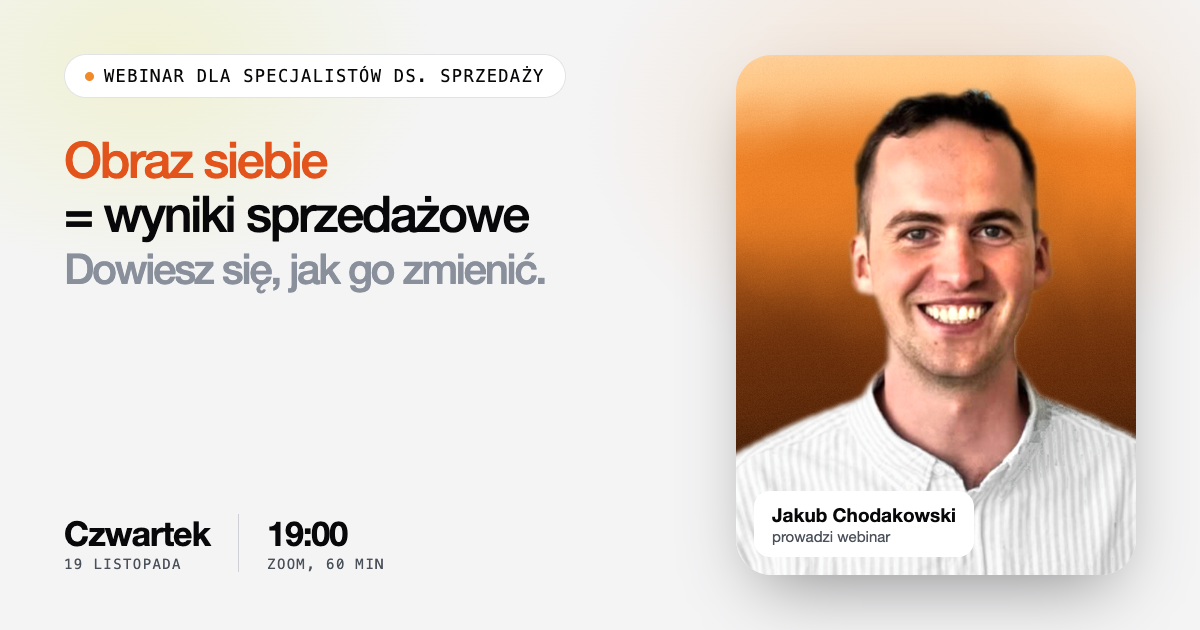
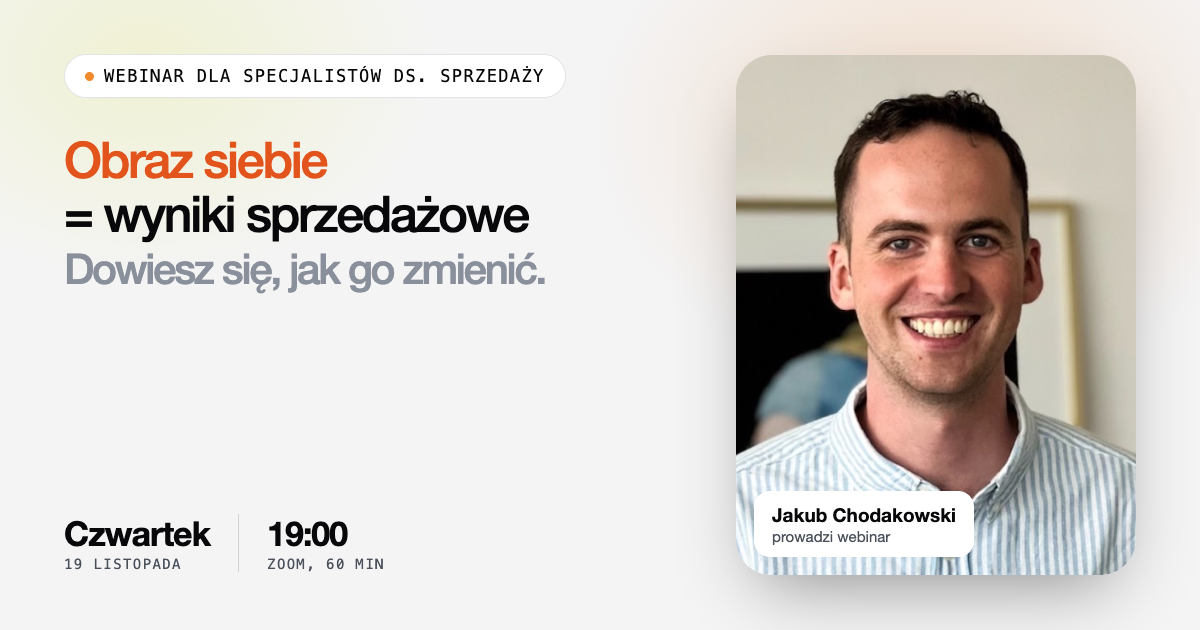
Webinar: nowe zdjęcie prowadzącego (koszula w paski), mniejsze na telefonie, nowy obrazek podglądu

Changed region(s): [[0.5858, 0.0603, 0.9558, 0.9349]]

diff --git a/components/bruno/webinar-lp-zapis.tsx b/components/bruno/webinar-lp-zapis.tsx
@@ -22,6 +22,8 @@ const START = WEBINAR.start;
 const KONIEC = START + 60 * 60 * 1000;
 const GCAL = webinarLinkGoogle();
 const ICS = "/api/bruno/webinar/ics";
+// 16.11 (USER_001): nowe zdjęcie prowadzącego (koszula w paski, jasna ściana; przycięte do kwadratu) w hero, przy bio i w okienku zapisu.
+const FOTO = "/bruno/jakub-webinar-koszula.jpg";
 /** Nadawca maila z linkiem Zoom (do strony „Dzięki” i okienka). */
 export const NADAWCA_ADRES = "jakub@salesbruno.com";
 
@@ -237,7 +239,7 @@ export default function WebinarLpZapis({ motyw = "pomarancz", dziekiUrl }: { mot
           </h1>
           {/* 29.10 (USER_001): na telefonie zdjęcie od razu pod „Bez pilnowania ich.”. */}
           <div className={`${s.heroFoto} ${s.heroFotoTel}`}>
-            <img src="/bruno/jakub-webinar.jpg?v=2" alt="Jakub Chodakowski" width={960} height={863} />
+            <img src={FOTO} alt="Jakub Chodakowski" width={703} height={703} />
             <div className={s.heroFotoPodpis}>
               <b>Jakub Chodakowski, CEO</b>
               <span>prowadzi webinar</span>
@@ -267,7 +269,7 @@ export default function WebinarLpZapis({ motyw = "pomarancz", dziekiUrl }: { mot
         </div>
         <div className={`${s.heroFoto} ${s.heroFotoKomp}`}>
           {/* 29.10 (USER_001): kadr ucięty nad zaokrągleniem koszuli, dół prosty (public/bruno/jakub-webinar.jpg = /jakub.jpg bez dolnych 110 px). */}
-          <img src="/bruno/jakub-webinar.jpg?v=2" alt="Jakub Chodakowski" width={960} height={863} />
+          <img src={FOTO} alt="Jakub Chodakowski" width={703} height={703} />
           <div className={s.heroFotoPodpis}>
             <b>Jakub Chodakowski, CEO</b>
             <span>prowadzi webinar</span>
@@ -278,7 +280,7 @@ export default function WebinarLpZapis({ motyw = "pomarancz", dziekiUrl }: { mot
       {/* KTO: osobna sekcja (USER_001 29.10). */}
       <section className={`${s.sekcja} ${s.sekcjaZapis} ${s.sekcjaProwadzacy}`}>
         <div className={s.prowadzacyZapis}>
-          <img src="/jakub.jpg" alt="Jakub Chodakowski" width={88} height={88} />
+          <img src={FOTO} alt="Jakub Chodakowski" width={88} height={88} />
           <p>
             <b className={s.bioImie}>Jakub Chodakowski, CEO.</b> {T.prowadzacy}
           </p>
@@ -379,7 +381,7 @@ export default function WebinarLpZapis({ motyw = "pomarancz", dziekiUrl }: { mot
               ×
             </button>
             <div className={s.oknoGlowa}>
-              <img src="/jakub.jpg" alt="" width={56} height={56} />
+              <img src={FOTO} alt="" width={56} height={56} />
               <div>
                 <h2 className={s.h2} id="okno-tytul">{T.okno.tytul}</h2>
                 <p className={s.oknoPod}>{T.okno.pod}</p>

diff --git a/components/bruno/webinar-lp.module.css b/components/bruno/webinar-lp.module.css
@@ -2605,3 +2605,33 @@
     white-space: nowrap;
   }
 }
+/* 16.11 (USER_001): nowe zdjęcie prowadzącego jest kwadratowe; na telefonie zdjęcie mniejsze. */
+.mAcad.zapisA .heroFoto img {
+  aspect-ratio: 1 / 1;
+  object-position: 50% 30%;
+}
+.mAcad .prowadzacyZapis img,
+.mAcad .oknoGlowa img {
+  object-position: 50% 25%;
+}
+@media (max-width: 860px) {
+  .mAcad.zapisA .heroFotoTel {
+    width: 72%;
+    max-width: 300px;
+    margin: 14px auto 24px;
+  }
+  .mAcad.zapisA .heroFotoTel .heroFotoPodpis {
+    left: 10px;
+    bottom: 10px;
+    padding: 8px 11px;
+  }
+}
+@media (max-width: 860px) {
+  .mAcad.zapisA .heroFotoTel .heroFotoPodpis b {
+    font-size: 12px;
+    white-space: nowrap;
+  }
+  .mAcad.zapisA .heroFotoTel .heroFotoPodpis span {
+    font-size: 11px;
+  }
+}

diff --git a/app/webinar/page.tsx b/app/webinar/page.tsx
@@ -22,7 +22,7 @@ export const metadata: Metadata = {
     siteName: "Jakub Chodakowski",
     locale: "pl_PL",
     type: "website",
-    images: [{ url: "/bruno/webinar-og.png?v=1611b", width: 1200, height: 630, alt: `Webinar, ${WEBINAR.dzien} ${WEBINAR.data}, ${WEBINAR.godzina}` }],
+    images: [{ url: "/bruno/webinar-og.png?v=1611c", width: 1200, height: 630, alt: `Webinar, ${WEBINAR.dzien} ${WEBINAR.data}, ${WEBINAR.godzina}` }],
   },
   robots: { index: false, follow: true },
 };
